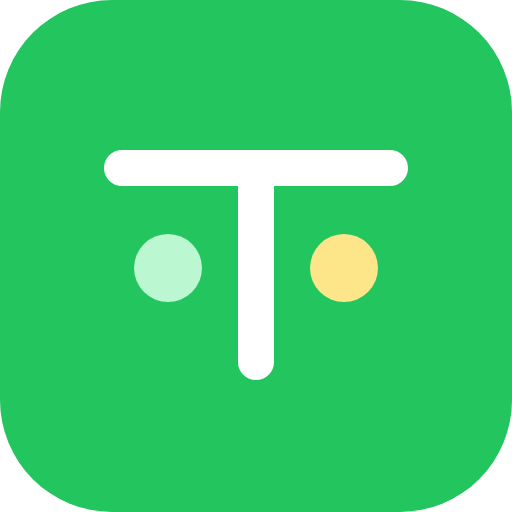
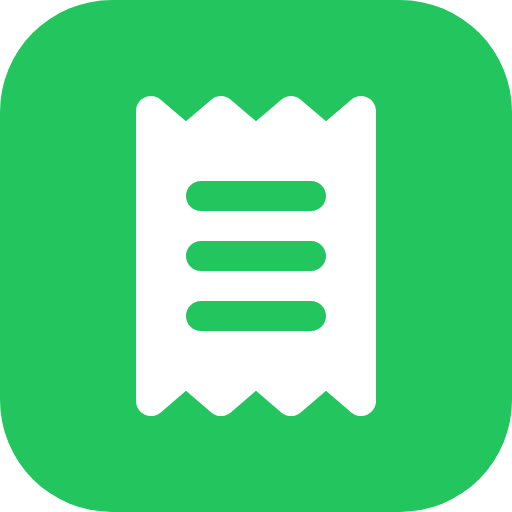
ホーム画面のアイコンを receipt に合わせ、アプリ名を bokilingo にする
- pwa-192/512・maskable・apple-touch-icon を icon.svg と同じ図形で作り直した（maskable は安全領域に収まる大きさ）
- 作り直し用に tools/icons/png.cjs を追加した
- manifest の name・short_name と apple-mobile-web-app-title を bokilingo にした

Claude-Session: https://claude.ai/code/session_01Qs2eMikprBcWS2Tq8B6mPQ

Changed region(s): [[0.1875, 0.1875, 0.8125, 0.8125]]

diff --git a/vite.config.ts b/vite.config.ts
@@ -18,8 +18,8 @@ export default defineConfig({
       registerType: "autoUpdate",
       includeAssets: ["icon.svg", "apple-touch-icon.png"],
       manifest: {
-        name: "ボキリンゴ 簿記3級",
-        short_name: "ボキリンゴ",
+        name: "bokilingo 簿記3級",
+        short_name: "bokilingo",
         description: "Duolingo風の日商簿記3級 学習アプリ",
         lang: "ja",
         start_url: BASE,

diff --git a/index.html b/index.html
@@ -8,7 +8,7 @@
     <link rel="icon" href="%BASE_URL%icon.svg" type="image/svg+xml" />
     <link rel="apple-touch-icon" href="%BASE_URL%apple-touch-icon.png" />
     <meta name="apple-mobile-web-app-capable" content="yes" />
-    <meta name="apple-mobile-web-app-title" content="ボキリンゴ" />
+    <meta name="apple-mobile-web-app-title" content="bokilingo" />
     <title>bokilingo</title>
   </head>
   <body>
